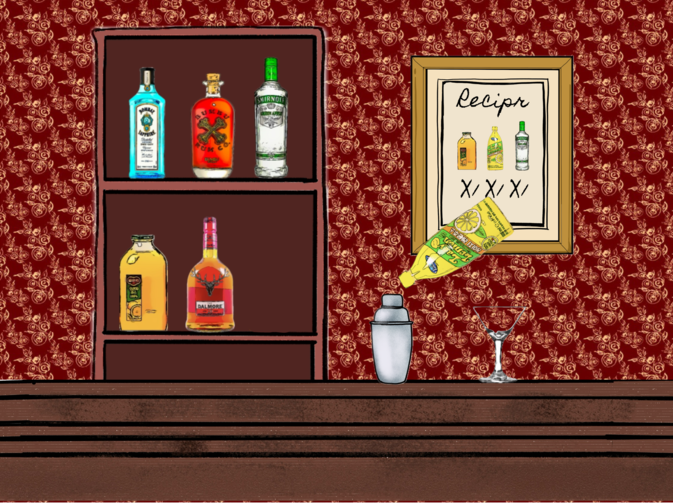
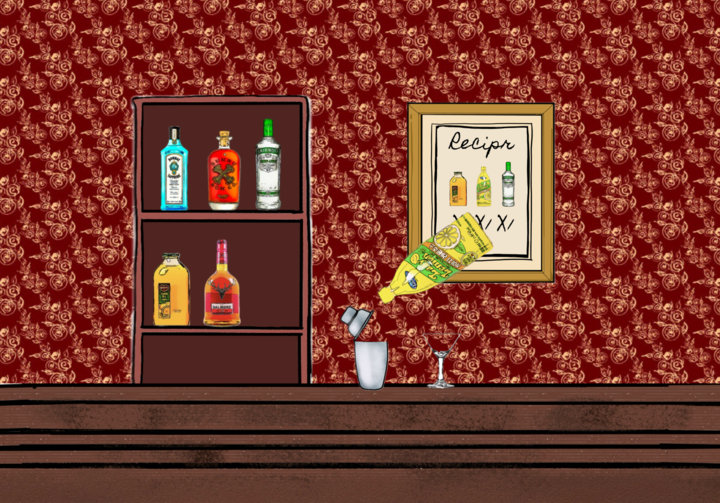
사진 수정 및 thebar.html화면 아이템 완성

diff --git a/js/_02_the_bar.js b/js/_02_the_bar.js
@@ -269,7 +269,7 @@ function addWordleArea() {
 }
 
 // 잔완성 이미지에 클릭 영역 추가 함수
-function addFinalClickArea() {
+function addFinalClickArea(drinkType) {
     const finalArea = { x: 748, y: 546, width: 75, height: 100 };
 
     const overlay = document.createElement('div');
@@ -281,43 +281,52 @@ function addFinalClickArea() {
     overlay.style.height = finalArea.height + 'px';
     overlay.style.backgroundColor = 'transparent'; // 영역이 보이지 않도록 투명하게 설정
     overlay.style.pointerEvents = 'auto'; // 오버레이가 클릭 이벤트를 받도록 설정
+    overlay.dataset.drinkType = drinkType; // drinkType 데이터를 저장
 
     document.getElementById('game-container').appendChild(overlay);
 
     // 마우스 포인터를 변경하기 위한 이벤트 리스너 추가
-    overlay.addEventListener('mouseenter', function() {
+    overlay.addEventListener('mouseenter', function () {
         document.body.style.cursor = 'pointer';
     });
-    overlay.addEventListener('mouseleave', function() {
+    overlay.addEventListener('mouseleave', function () {
         document.body.style.cursor = 'default';
     });
 
     // 클릭 이벤트 리스너 추가
-    overlay.addEventListener('click', function(event) {
+    overlay.addEventListener('click', function (event) {
         event.stopPropagation(); // 이벤트 전파를 막아 오버레이 뒤의 요소가 클릭되지 않도록 함
-        handleFinalClick();
+        handleFinalClick(event.target.dataset.drinkType);
     });
 }
 
+
 // 잔완성 이미지 클릭 시 동작
-function handleFinalClick() {
+function handleFinalClick(drinkType) {
     imageElement.src = '../image/images/barpage/칵테일잔x.png'; // 변경할 이미지로 대체
 
-    // inventory.html에 칵테일 잔 이미지를 추가
     let inventory = JSON.parse(localStorage.getItem('inventory')) || [];
-    
-    // 이미 아이템이 존재하는지 확인
-    const itemExists = inventory.includes('../image/images/useritem/갈색술.png');
+    let itemExists;
+    let itemName;
+
+    if (drinkType === "갈색술") {
+        itemExists = inventory.includes('../image/images/useritem/갈색술.png');
+        itemName = '../image/images/useritem/갈색술.png';
+    } else if (drinkType === "보라술") {
+        itemExists = inventory.includes('../image/images/useritem/보라술.png');
+        itemName = '../image/images/useritem/보라술.png';
+    }
+
     if (itemExists) {
         alert("이미 같은 아이템이 인벤토리에 있습니다.");
         return;
     }
 
-    inventory.push('../image/images/useritem/갈색술.png');
+    inventory.push(itemName);
     localStorage.setItem('inventory', JSON.stringify(inventory));
 
-    // 갈색 술을 획득하였습니다 메시지 표시
-    alert("갈색 술을 획득하였습니다.");
+    // 획득 메시지 표시
+    alert(`${drinkType}을(를) 획득하였습니다.`);
 }
 
 // 인벤토리 아이템 클릭 이벤트 처리 조건 추가
@@ -351,11 +360,16 @@ function handleItemClick(item) {
         const modalImg = document.getElementById('modal-img');
         modalImg.src = item;
         modal.style.display = 'block';
+    } else if (item === '../image/images/useritem/보라술.png') {
+        history.back();
+        itemSelected = '보라술';
+        localStorage.setItem("itemSelected", itemSelected);
+        alert('보라술이 선택되었습니다.');
     }
 }
 
 // 메시지를 화면 가운데에 표시하는 함수
-function displayMessage(message) {
+function displayMessage1(message) {
     const messageBox = document.createElement('div');
     messageBox.textContent = message;
     messageBox.style.position = 'fixed';
@@ -376,11 +390,33 @@ function displayMessage(message) {
     }, 2000);
 }
 
+function displayMessage2(message, callback) {
+    const messageBox = document.createElement('div');
+    messageBox.textContent = message;
+    messageBox.style.position = 'fixed';
+    messageBox.style.top = '50%';
+    messageBox.style.left = '50%';
+    messageBox.style.transform = 'translate(-50%, -50%)';
+    messageBox.style.backgroundColor = 'rgba(0, 0, 0, 0.7)';
+    messageBox.style.color = 'white';
+    messageBox.style.padding = '20px';
+    messageBox.style.borderRadius = '10px';
+    messageBox.style.zIndex = '1000';
+    document.body.appendChild(messageBox);
+
+    // 2초 후 메시지를 제거하고 콜백 함수 호출
+    setTimeout(() => {
+        document.body.removeChild(messageBox);
+        if (callback) callback();
+    }, 2000);
+}
+
 // 클릭 횟수를 확인하는 함수
-//---------------------------------//
-//            레시피 1번            //
-//---------------------------------//
+
 function checkLiquorClickCombination() {
+    //---------------------------------//
+    //            레시피 1번            //
+    //---------------------------------//
     if (liquorClickCounts['레몬주스따르기'] === 1 &&
         liquorClickCounts['스미노프따르기'] === 1 &&
         liquorClickCounts['오렌지주스따르기'] === 1 &&
@@ -388,18 +424,41 @@ function checkLiquorClickCombination() {
         liquorClickCounts['럼따르기'] === 0 &&
         liquorClickCounts['달모어따르기'] === 0) {
         setTimeout(function () {
-            imageElement.src = '../image/images/barpage/잔을채우다1.png';
+            imageElement.src = '../image/images/barpage/갈색잔채우다.png';
             setTimeout(function () {
-                imageElement.src = '../image/images/barpage/잔완성.png';
+                imageElement.src = '../image/images/barpage/갈색잔완성.png';
                 thirdImageDisplayed = false;
                 document.getElementById('close-button').style.display = 'block';
-                addFinalClickArea(); // 잔완성 이미지에 클릭 영역 추가
+                addFinalClickArea("갈색술"); // 기존 레시피 - 갈색술
             }, 1000); // 1초 동안 특정 이미지를 표시한 후 원래 이미지로 돌아가기
         }, 500);
         return true;
-    } 
+    }
+
+    //---------------------------------//
+    //            레시피 2번            //
+    //---------------------------------//
+    if (liquorClickCounts['레몬주스따르기'] === 0 &&
+        liquorClickCounts['스미노프따르기'] === 0 &&
+        liquorClickCounts['오렌지주스따르기'] === 0 &&
+        liquorClickCounts['봄베이따르기'] === 2 &&
+        liquorClickCounts['럼따르기'] === 1 &&
+        liquorClickCounts['달모어따르기'] === 2) {
+        setTimeout(function () {
+            imageElement.src = '../image/images/barpage/보라잔채우다.png';
+            setTimeout(function () {
+                imageElement.src = '../image/images/barpage/보라잔완성.png';
+                thirdImageDisplayed = false;
+                document.getElementById('close-button').style.display = 'block';
+                addFinalClickArea("보라술"); // 새로운 레시피 - 보라술
+            }, 1000); // 1초 동안 특정 이미지를 표시한 후 원래 이미지로 돌아가기
+        }, 500);
+        return true;
+    }
+
     return false;
 }
+
 
 // 클릭 횟수를 초기화하는 함수
 function resetLiquorClickCounts() {
@@ -412,6 +471,7 @@ function resetLiquorClickCounts() {
 addClickableAreas();
 
 // wordle에서 돌아왔을 때 레시피를 추가
+// window.onload 이벤트 수정
 window.onload = function() {
     const selectedItem = localStorage.getItem("itemSelected");
     const boyfriendAreaClicked = localStorage.getItem("boyfriendAreaClicked") === 'true';
@@ -422,7 +482,7 @@ window.onload = function() {
         addCloseButton();
         removeClickableAreas(); // 영역 제거
         addPaperArea(); // 남자친구 클릭 시 추가 영역 생성
-        displayMessage('아, 술이 부족하군요. 신문을 한번 보시고 다른 레시피를 찾아 술을 더 마련해주시면 감사하겠습니다.');
+        displayMessage1('아, 술이 부족하군요. 신문을 한번 보시고 다른 레시피를 찾아 술을 더 마련해주시면 감사하겠습니다.');
         
         // 인벤토리에서 갈색 술 아이템 삭제
         let inventory = JSON.parse(localStorage.getItem('inventory')) || [];
@@ -436,6 +496,32 @@ window.onload = function() {
         localStorage.removeItem("boyfriendAreaClicked");
     }
 
+    if (selectedItem && selectedItem === '보라술' && boyfriendAreaClicked) {
+        imageElement.src = '../image/images/barpage/내버려둬(잔x).png';
+        otherAreaClicked = true;
+        addCloseButton();
+        removeClickableAreas(); // 영역 제거
+        addPaperArea(); // 남자친구 클릭 시 추가 영역 생성
+        displayMessage2('감사합니다. 여기 사진을 드릴께요. 소중히 다뤄주세요.', function() {
+            // 인벤토리에서 보라 술 아이템 삭제
+            let inventory = JSON.parse(localStorage.getItem('inventory')) || [];
+            const itemIndex = inventory.indexOf('../image/images/useritem/보라술.png');
+            if (itemIndex > -1) {
+                inventory.splice(itemIndex, 1);
+                localStorage.setItem('inventory', JSON.stringify(inventory));
+            }
+
+            // 인벤토리에 깨진액자 추가
+            if (!inventory.includes('../image/images/useritem/깨진액자.png')) {
+                inventory.push('../image/images/useritem/깨진액자.png');
+                localStorage.setItem('inventory', JSON.stringify(inventory));
+            }
+
+            alert('깨진액자를 획득하였습니다.');
+            localStorage.removeItem("itemSelected");
+            localStorage.removeItem("boyfriendAreaClicked");
+        });
+    }
     const recipeWon = localStorage.getItem("recipeWon");
 
     if (recipeWon === "true") {
@@ -449,6 +535,21 @@ window.onload = function() {
         }
 
         localStorage.removeItem("recipeWon");
+    }
+
+    const purpleDrinkWon = localStorage.getItem("purpleDrinkWon");
+
+    if (purpleDrinkWon === "true") {
+        // 보라술을 인벤토리에 추가
+        let inventory = JSON.parse(localStorage.getItem('inventory')) || [];
+        const itemExists = inventory.includes('../image/images/useritem/보라술.png');
+        if (!itemExists) {
+            inventory.push('../image/images/useritem/보라술.png');
+            localStorage.setItem('inventory', JSON.stringify(inventory));
+            alert('보라술을 획득하였습니다.');
+        }
+
+        localStorage.removeItem("purpleDrinkWon");
     }
 }
 

diff --git a/HTML/inventory.html b/HTML/inventory.html
@@ -113,8 +113,10 @@
         <div class="intembox" id="box7" style="left: 85.7%; top: 11%;"></div>
     </div>
 
-    <div id="recipe-modal">
-        <img id="modal-img" src="">
+    <!-- Modal -->
+    <div id="recipe-modal" class="modal">
+        <span class="close">&times;</span>
+        <img class="modal-content" id="modal-img">
     </div>
 
     
